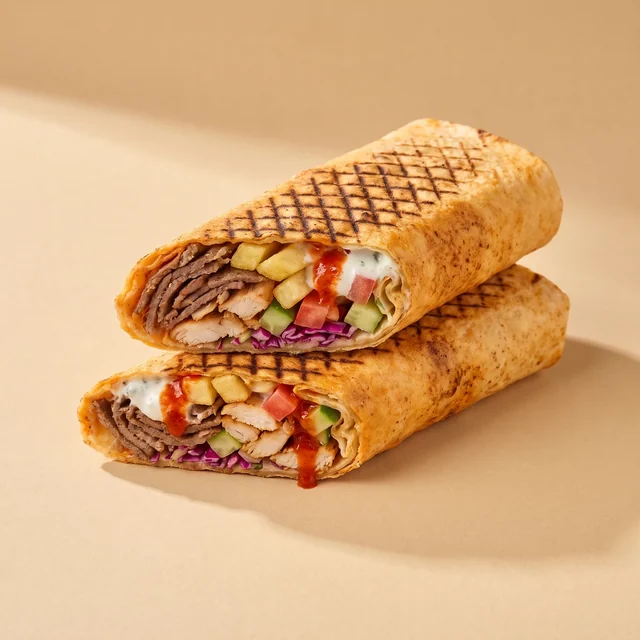
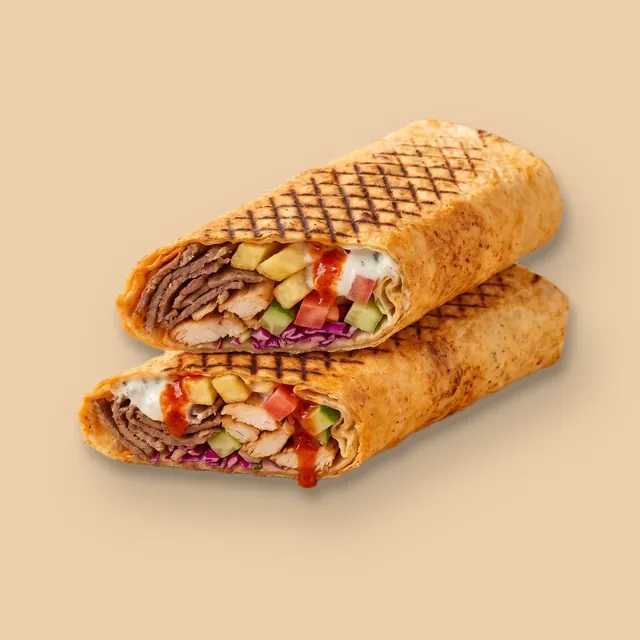
Фото донера в лаваше на ровном фоне в цвет карточки; v2: видео по долгому нажатию на карточку
Claude-Session: https://claude.ai/code/session_0173hyDFPHBTJaZqUJVajjGX

diff --git a/v2.html b/v2.html
@@ -408,6 +408,12 @@ html.motion #app.ov.ovw{transform:scale(.94);opacity:.45}
 html.motion #bar.ov{opacity:0;pointer-events:none}
 /* пока поверх открыт экран, фон не тратит кадры на анимации */
 #amb.pz,#amb.pz *{animation-play-state:paused!important}
+/* долгое нажатие: без меню браузера и выделения, видео поверх фото в том же кадре (18.11.2026) */
+#app .mc,#app .mc img{-webkit-touch-callout:none;-webkit-user-select:none;user-select:none;-webkit-user-drag:none}
+.ph.mp video.lpv{position:absolute;inset:0;width:100%;height:100%;object-fit:cover;opacity:0;transition:opacity .35s ease;z-index:1;pointer-events:none}
+.wide.mc .ph.mp video.lpv,.sm.mc .ph.mp video.lpv{transform:scale(1.1);transform-origin:50% 46%}
+.ph.mp video.lpv.on{opacity:1}
+
 /* баннер с видео справа: видео во всю высоту, слева плавно растворяется в фоне баннера (18.11.2026) */
 .hero.hero3{position:relative;overflow:hidden;min-height:150px}
 .hero3 .htx{position:relative;z-index:2;max-width:60%}
@@ -3774,7 +3780,8 @@ Object.assign(T.ru,{hd_t:'донер к обеду',hd_s:'мясо с верте
 Object.assign(T.kk,{hd_t:'түскі асқа донер',hd_s:'шампур еті - керек уақытқа тапсырыс бер',hd_b:'донер таңдау',ht_t:'кешке шай',ht_s:'шәйнектегі түрік шайы - екеуге бір',ht_b:'шай таңдау',kas_empty:'Белсенді тапсырыс жоқ. Жаңалары осында дыбыспен шығады.'});
 Object.assign(T.en,{hd_t:'doner for lunch',hd_s:'meat off the spit - order for the time you need',hd_b:'choose a doner',ht_t:'tea for the evening',ht_s:'Turkish tea in a pot - one for two',ht_b:'choose tea',kas_empty:'No active orders. New ones will appear here with a sound.'});
 // утро (до 11) - кофе, день (11–16) - донер, вечер - чай. Время по Алматы.
-function heroSlot(){const h=new Date(Date.now()+5*3600e3).getUTCHours();return h<11?'cf':h<16?'dn':'tea'}
+function heroSlot(){const hq=(location.search.match(/[?&]hero=(cf|dn|tea)/)||[])[1];if(hq)return hq;  // ?hero=dn - посмотреть баннер другого времени суток
+ const h=new Date(Date.now()+5*3600e3).getUTCHours();return h<11?'cf':h<16?'dn':'tea'}
 // баннер с видео (18.11.2026): кофе - молоко льётся в кофе, донер - лаваш с гриля, чай - чайник. Играет один раз, когда баннер на экране, повтор - нажатием на видео. Нет видео (слабый интернет, экономия трафика) - прежние рисунки
 const HVT={cf:'hero',dn:'hd',tea:'ht'};
 function heroVid(sl){const k=HVT[sl];return `<div class="hero hero3${S.ent?' ent':''}" onclick="setCat('${sl}')"><div class="htx"><b>${t(k+'_t')}</b><span>${t(k+'_s')}</span><i>${t(k+'_b')} ${IC.chv}</i></div><span class="hvid"><video src="/media/v/hero_${sl}.mp4" poster="/media/p/hero_${sl}.webp" muted playsinline preload="metadata" disablepictureinpicture aria-hidden="true" onclick="event.stopPropagation();heroVRe(this)"></video></span></div>`}
@@ -5079,6 +5086,24 @@ function bwCard(){const it=S.items.find(i=>i.id=='bw');if(!it||it.sold_out)retur
 {const bwIO=('IntersectionObserver' in window)?new IntersectionObserver(es=>es.forEach(en=>{const v=en.target;if(en.isIntersecting&&en.intersectionRatio>=.5){if(!v.ended&&!v._done){const p=v.play();p&&p.catch(()=>{})}}else if(!v.paused)v.pause()}),{threshold:[0,.5]}):null;
  const bwScan=()=>{if(!bwIO)return;document.querySelectorAll('#app .bwv video,#app .hvid video').forEach(v=>{if(v._io)return;v._io=1;v.addEventListener('ended',()=>{v._done=1});bwIO.observe(v)})};
  const _r=render;render=function(){const r=_r.apply(this,arguments);try{bwScan()}catch(_){}return r}}
+// долгое нажатие на карточку (18.11.2026): вместо меню браузера «Скачать изображение» - лёгкая вибрация, и в окошке карточки один раз играет видео блюда. Отпустил после этого - карточка не открывается
+{let lpT=0,lpX=0,lpY=0,lpEl=null,lpAt=0;
+ const lpCard=e=>e.target.closest&&e.target.closest('#app .mc');
+ const lpStop=()=>{clearTimeout(lpT);lpT=0;lpEl=null};
+ function lpPlay(card){const m=(card.getAttribute('onclick')||'').match(/op_\('([^']+)'/),it=m&&itemOf(m[1]),k=it&&medKey(it),ph=card.querySelector('.ph.mp');if(!k||!ph||!vidOk())return false;
+  let v=ph.querySelector('video.lpv');if(v){v.currentTime=0;v.play().catch(()=>{});return true}
+  v=document.createElement('video');v.className='lpv';v.muted=true;v.playsInline=true;v.setAttribute('playsinline','');v.setAttribute('disablepictureinpicture','');v.preload='auto';v.src=medV(k)+'.mp4';
+  v.addEventListener('playing',()=>v.classList.add('on'),{once:true});
+  v.addEventListener('ended',()=>{v.classList.remove('on');setTimeout(()=>v.remove(),420)});
+  v.addEventListener('error',()=>v.remove());
+  ph.appendChild(v);const p=v.play();p&&p.catch(()=>v.remove());return true}
+ document.addEventListener('pointerdown',e=>{const c=lpCard(e);if(!c||e.button>0)return;lpStop();lpEl=c;lpX=e.clientX;lpY=e.clientY;
+  lpT=setTimeout(()=>{const el=lpEl;lpStop();if(el&&lpPlay(el)){lpAt=Date.now();try{navigator.vibrate&&navigator.vibrate(12)}catch(_){}}},420)},{passive:true});
+ document.addEventListener('pointermove',e=>{if(lpT&&(Math.abs(e.clientX-lpX)>10||Math.abs(e.clientY-lpY)>10))lpStop()},{passive:true});
+ ['pointerup','pointercancel'].forEach(n=>document.addEventListener(n,()=>{if(lpT)lpStop()},{passive:true}));
+ addEventListener('scroll',()=>{if(lpT)lpStop()},{passive:true});
+ document.addEventListener('contextmenu',e=>{if(lpCard(e))e.preventDefault()});
+ document.addEventListener('click',e=>{if(lpAt&&Date.now()-lpAt<900&&lpCard(e)){e.stopPropagation();e.preventDefault();lpAt=0}},true)}
 // ---------- меню одной лентой: вкладка = раздел, подсветка по прокрутке (как scrollspy) ----------
 (function(){let lockT=0,raf=0;
 const catsH=()=>{const c=document.querySelector('.cats');return c?c.offsetHeight:70};

diff --git a/push-sw.js b/push-sw.js
@@ -4,7 +4,7 @@
 //  - фото меню /media/p/*, значки, шрифты и библиотека supabase-js с CDN: из кэша, с ограничением по количеству;
 //  - видео /media/v/*, запросы к базе (Supabase), функции, POST - никогда не кэшируются;
 //  - аварийный выключатель: если /sw-off.txt отдаёт 200, worker удаляет кэши и снимает себя.
-const VER = 'v3-4';
+const VER = 'v3-5';  // 18.11.2026: новое фото донера в лаваше
 const SHELL = 'dn-shell-' + VER, MEDIA = 'dn-media-' + VER, LIB = 'dn-lib-' + VER;
 const KEEP = [SHELL, MEDIA, LIB];
 const MEDIA_MAX = 260, LIB_MAX = 30;
